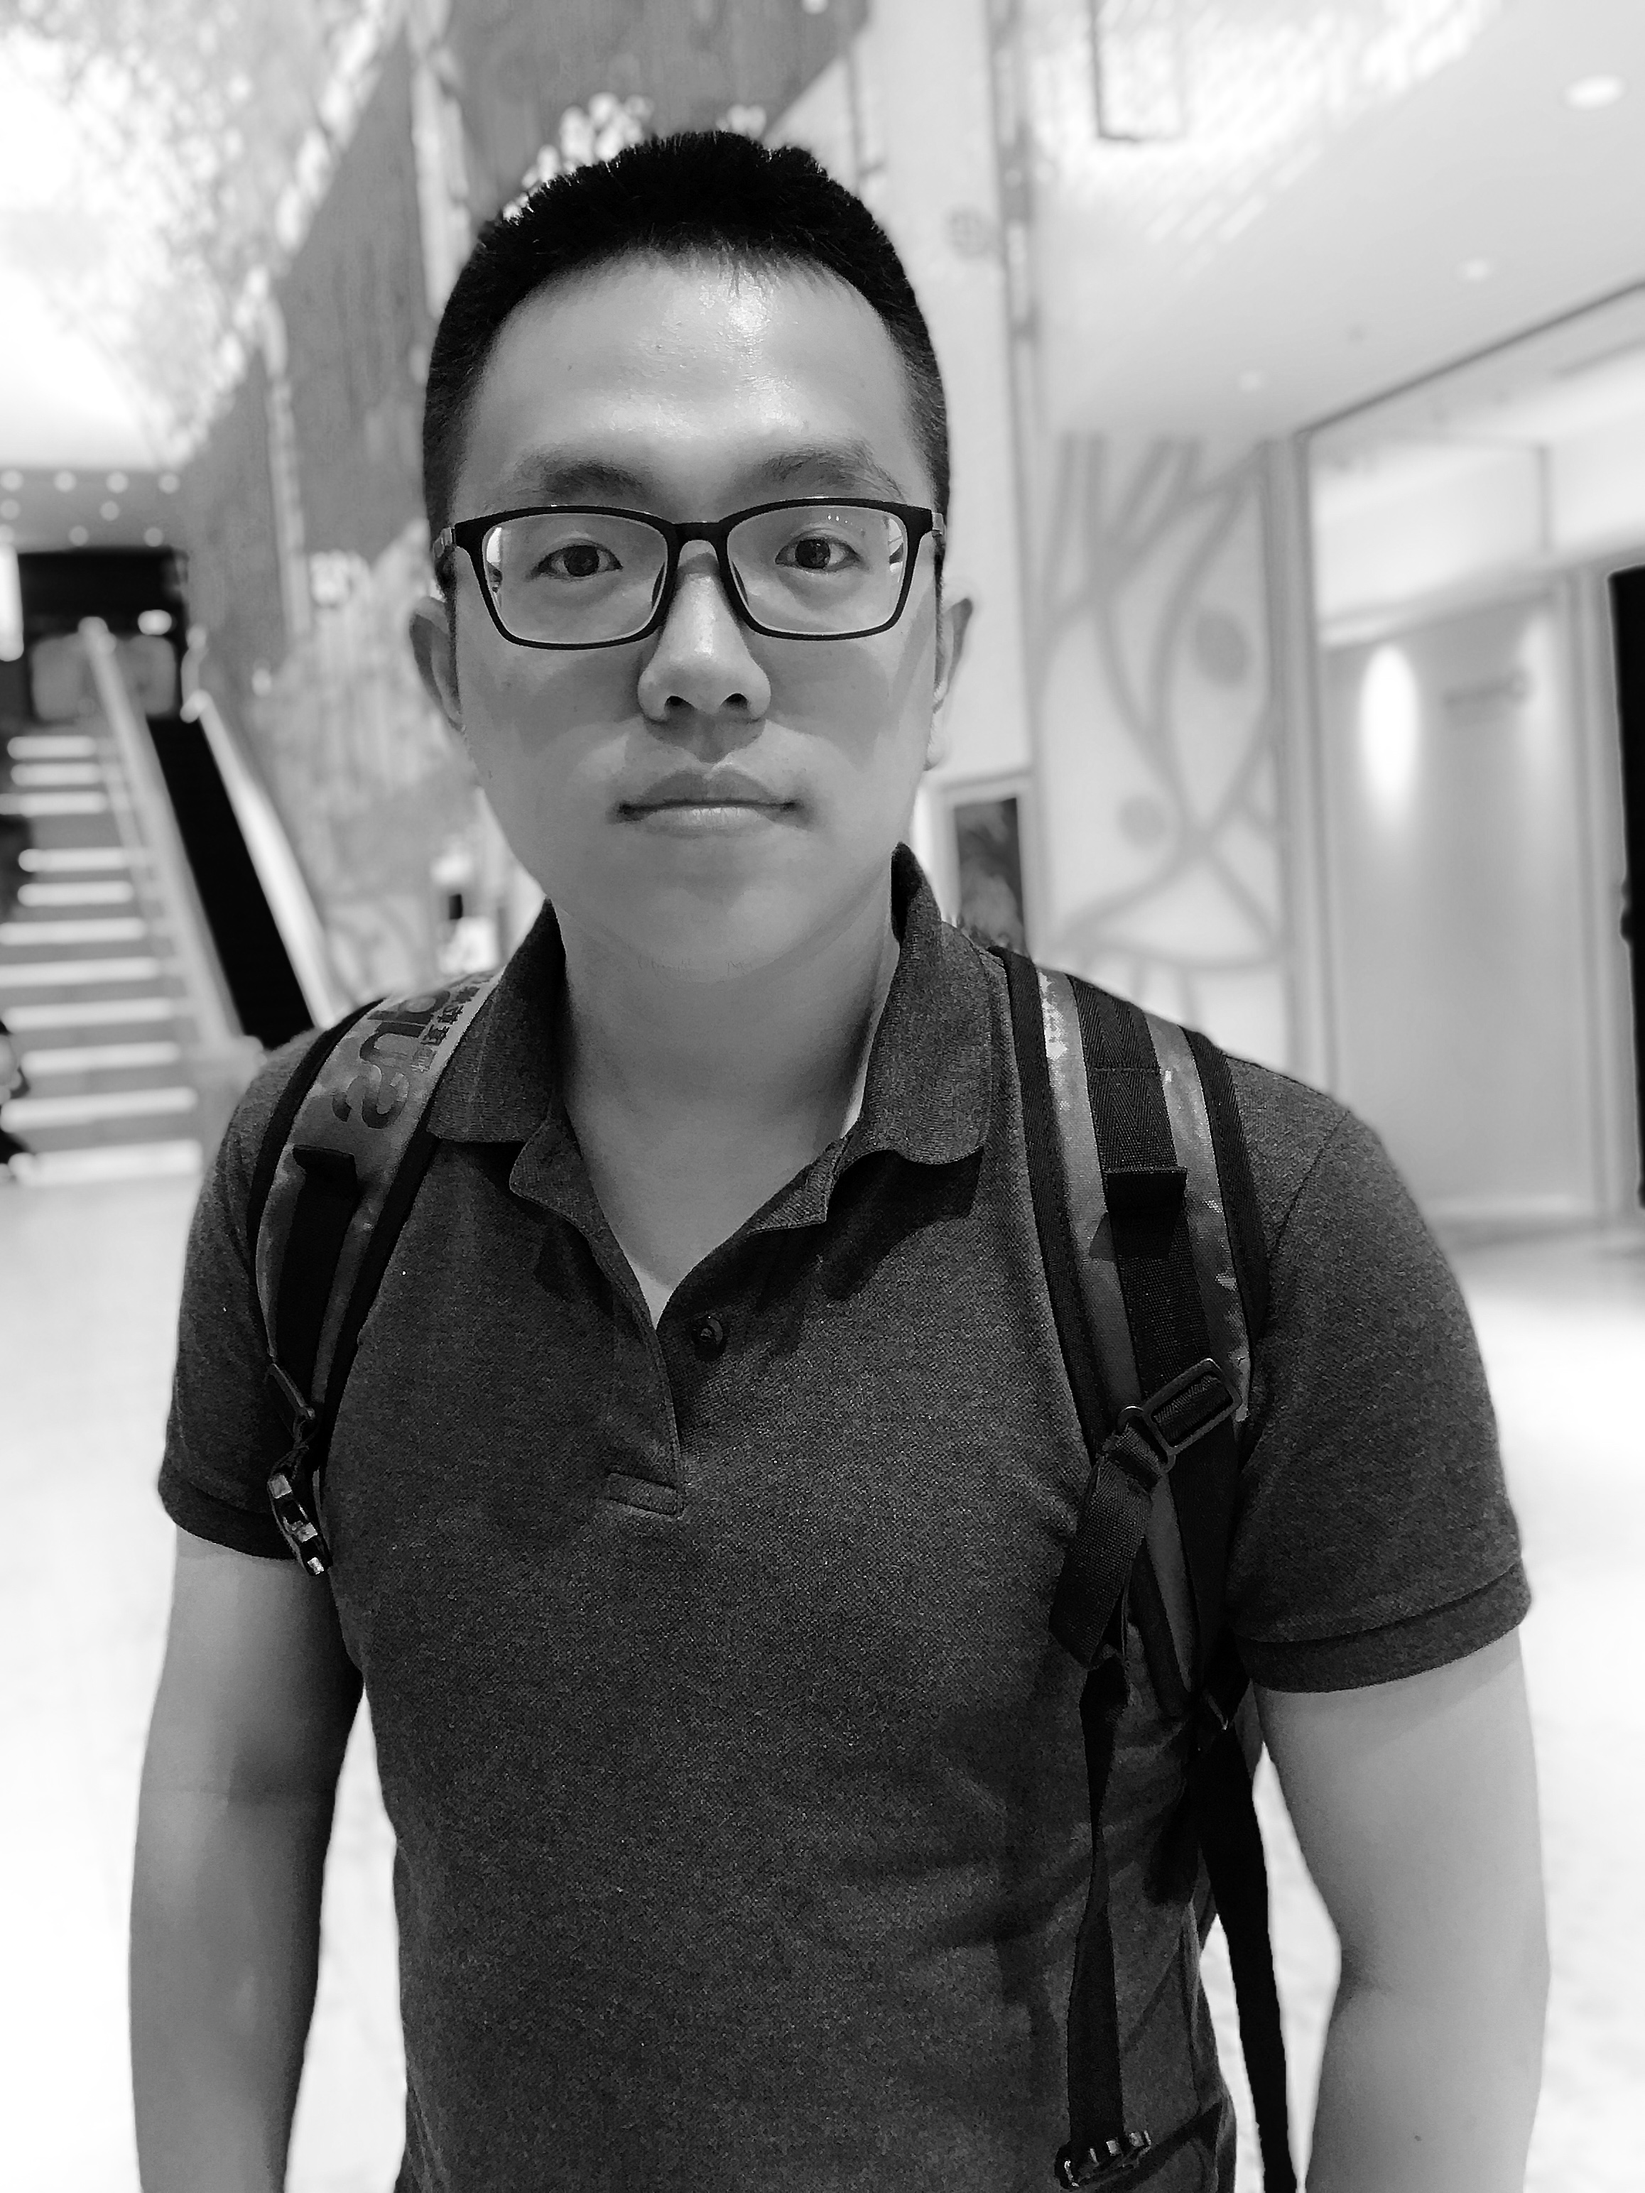
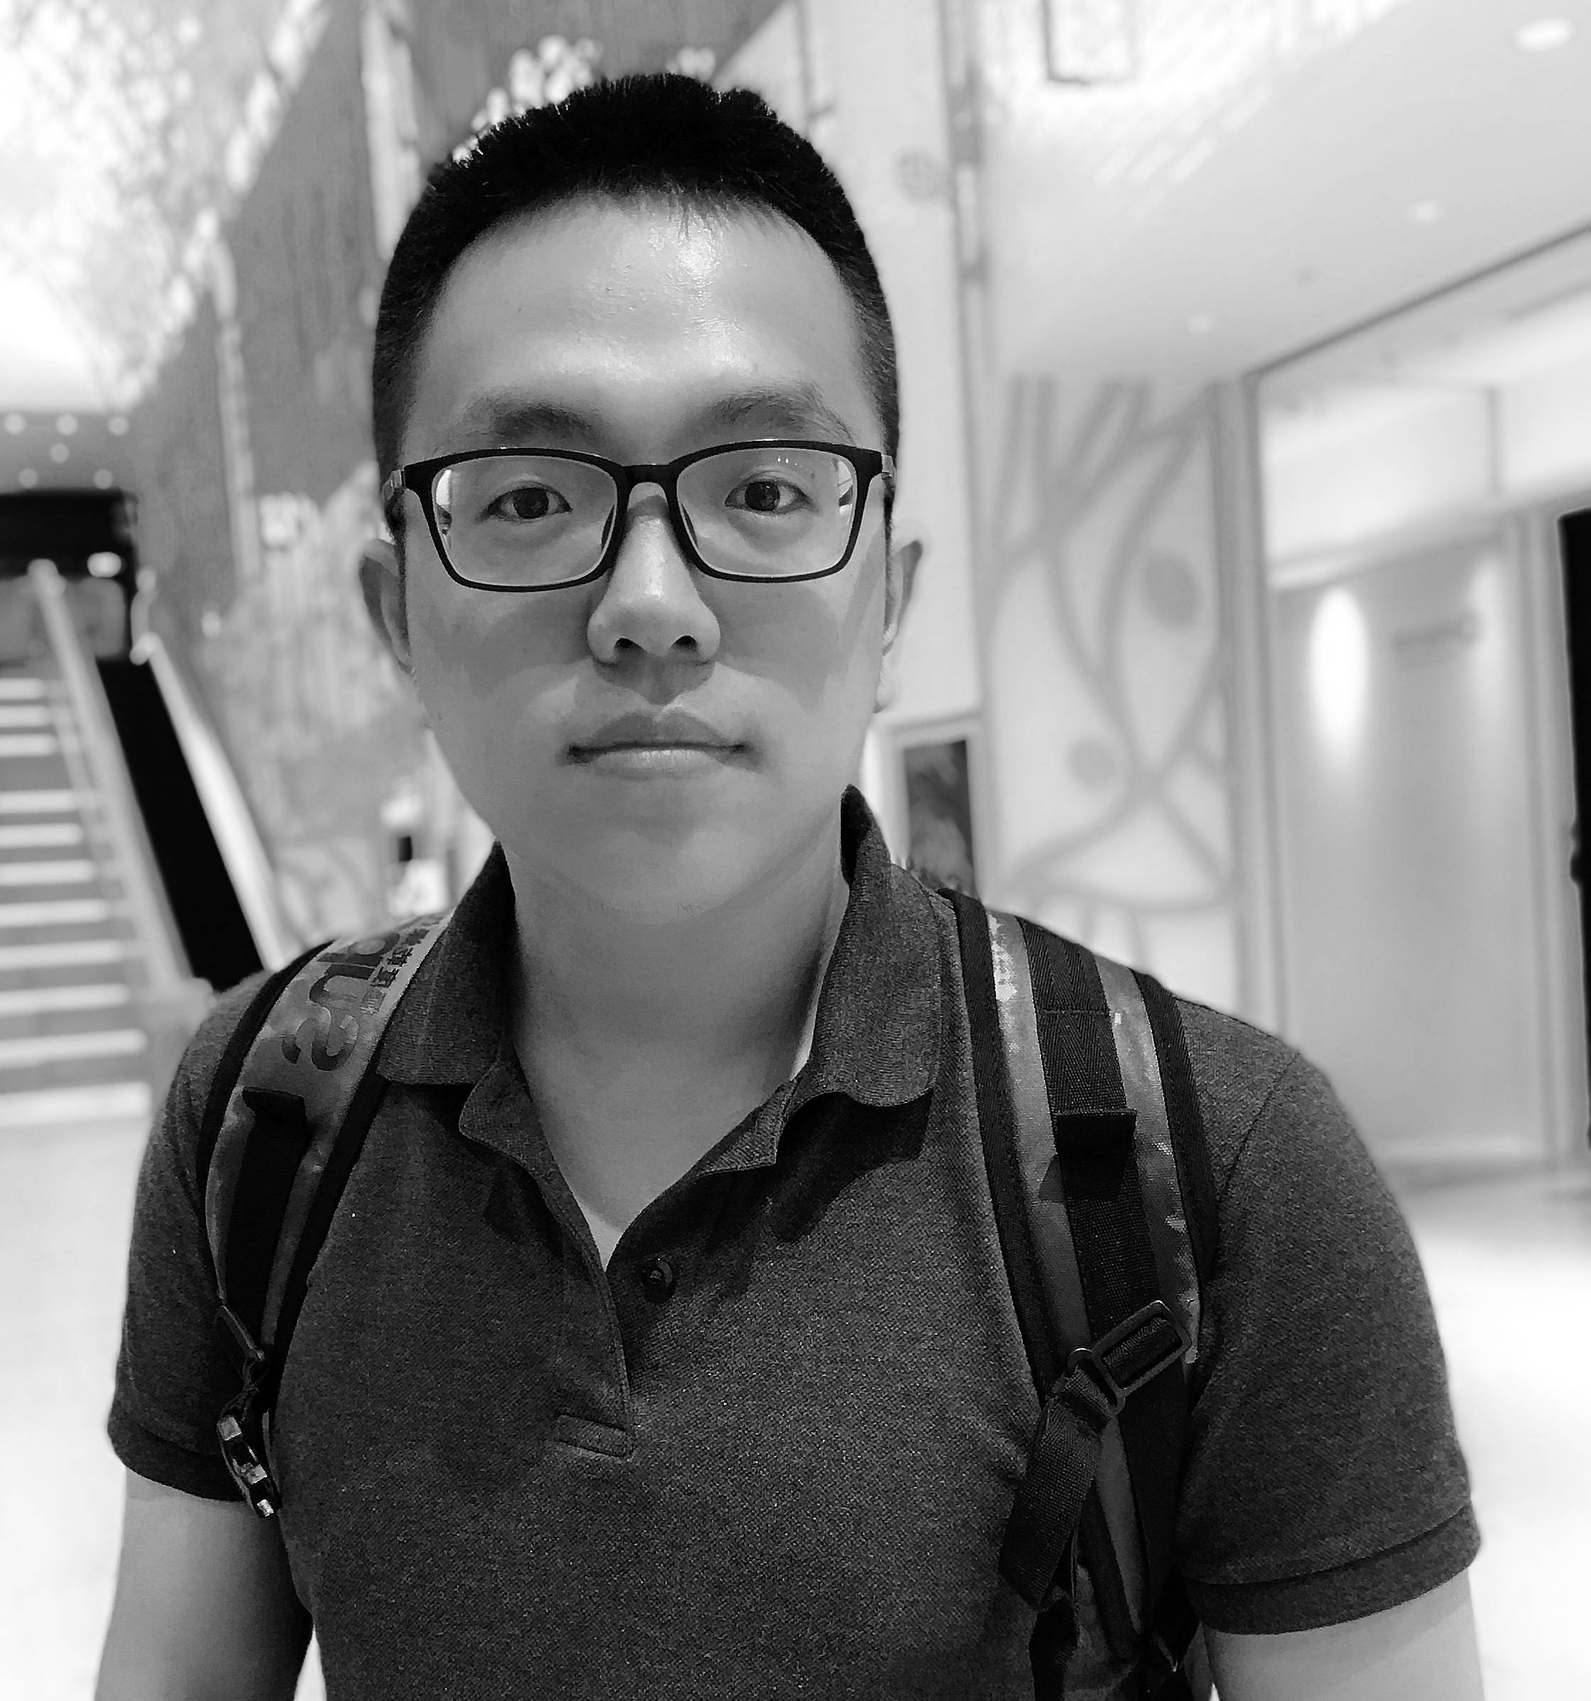
update personal photo

diff --git a/zh/authors/admin/index.html b/zh/authors/admin/index.html
@@ -432,7 +432,7 @@
 
       
       
-      <img class="portrait" src="/zh/authors/admin/avatar_huc8f3c4f647e74ed53363138378b533e6_1387405_250x250_fill_q90_lanczos_center.jpg" itemprop="image" alt="Avatar">
+      <img class="portrait" src="/zh/authors/admin/avatar_hue92243c59997bc575272d72493292322_463066_250x250_fill_q90_lanczos_center.jpg" itemprop="image" alt="Avatar">
       
 
       <div class="portrait-title">

diff --git a/zh/index.html b/zh/index.html
@@ -467,7 +467,7 @@
 
       
       
-      <img class="portrait" src="/zh/authors/admin/avatar_huc8f3c4f647e74ed53363138378b533e6_1387405_250x250_fill_q90_lanczos_center.jpg" itemprop="image" alt="Avatar">
+      <img class="portrait" src="/zh/authors/admin/avatar_hue92243c59997bc575272d72493292322_463066_250x250_fill_q90_lanczos_center.jpg" itemprop="image" alt="Avatar">
       
 
       <div class="portrait-title">

diff --git a/authors/admin/index.html b/authors/admin/index.html
@@ -432,7 +432,7 @@
 
       
       
-      <img class="portrait" src="/authors/admin/avatar_huc8f3c4f647e74ed53363138378b533e6_1387405_250x250_fill_q90_lanczos_center.jpg" itemprop="image" alt="Avatar">
+      <img class="portrait" src="/authors/admin/avatar_hue92243c59997bc575272d72493292322_463066_250x250_fill_q90_lanczos_center.jpg" itemprop="image" alt="Avatar">
       
 
       <div class="portrait-title">

diff --git a/index.html b/index.html
@@ -467,7 +467,7 @@
 
       
       
-      <img class="portrait" src="/authors/admin/avatar_huc8f3c4f647e74ed53363138378b533e6_1387405_250x250_fill_q90_lanczos_center.jpg" itemprop="image" alt="Avatar">
+      <img class="portrait" src="/authors/admin/avatar_hue92243c59997bc575272d72493292322_463066_250x250_fill_q90_lanczos_center.jpg" itemprop="image" alt="Avatar">
       
 
       <div class="portrait-title">
